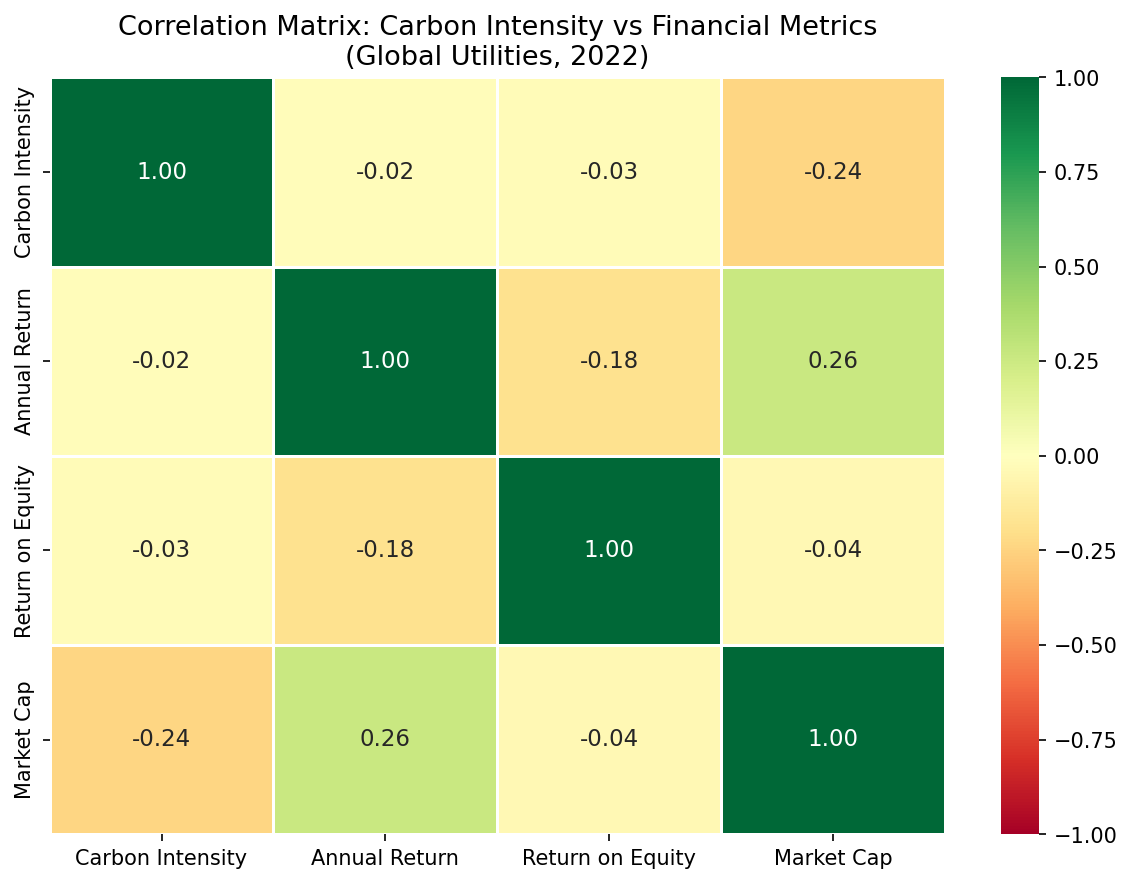
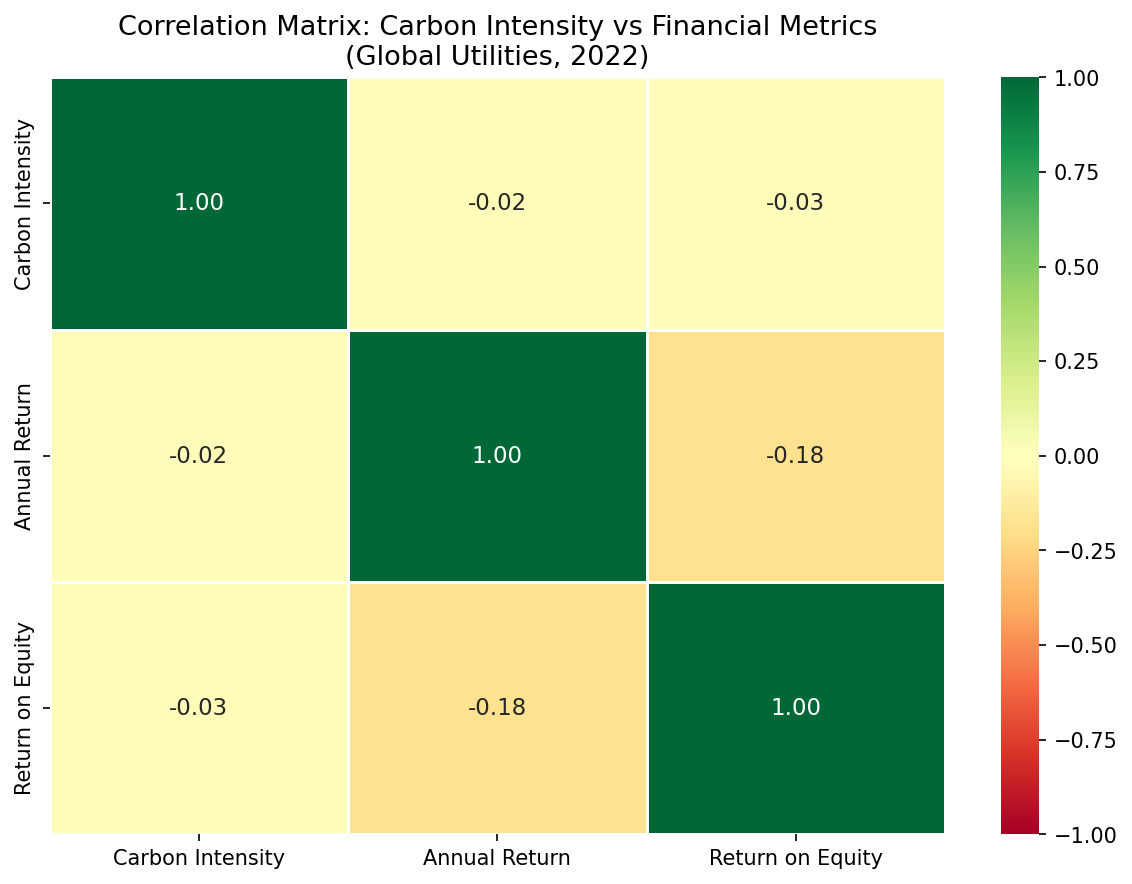
Remove market cap from analysis - inconsistent time period

diff --git a/visualisation.py b/visualisation.py
@@ -35,12 +35,12 @@ print("Chart 1 saved")
 # CHART 2: Correlation heatmap
 import seaborn as sns
 
-corr_cols = ['carbon_intensity', 'annual_return_2022', 'return_on_equity', 'market_cap']
+corr_cols = ['carbon_intensity', 'annual_return_2022', 'return_on_equity']
 corr_matrix = df[corr_cols].corr()
 
 # Rename columns for cleaner labels
-corr_matrix.columns = ['Carbon Intensity', 'Annual Return', 'Return on Equity', 'Market Cap']
-corr_matrix.index = ['Carbon Intensity', 'Annual Return', 'Return on Equity', 'Market Cap']
+corr_matrix.columns = ['Carbon Intensity', 'Annual Return', 'Return on Equity']
+corr_matrix.index = ['Carbon Intensity', 'Annual Return', 'Return on Equity']
 
 fig, ax = plt.subplots(figsize=(8, 6))
 

diff --git a/analysis.py b/analysis.py
@@ -53,6 +53,19 @@ tercile_summary = df.groupby('tercile')[['annual_return_2022', 'return_on_equity
 print("\n--- TERCILE ANALYSIS ---")
 print(tercile_summary)
 
+# Correlation metrics
+metrics = {
+    'Annual Return': 'annual_return_2022',
+    'Return on Equity': 'return_on_equity'
+}
+
+print("\n--- CARBON INTENSITY CORRELATIONS ---")
+for label, col in metrics.items():
+    clean = df[['carbon_intensity', col]].dropna()
+    r, p = stats.pearsonr(clean['carbon_intensity'], clean[col])
+    print(f"{label}: r = {r:.3f}, p = {p:.3f}")
+
+
 # --- SUMMARY ---
 print("\n--- FULL SUMMARY ---")
 print(f"Sample size: {len(df)} companies")

diff --git a/README.md b/README.md
@@ -2,32 +2,70 @@
 
 ## Research Question
 Is there a statistically significant association between carbon intensity and financial performance among listed utility companies?
-
+ 
 ## Data Sources
 - **Sample Frame:** iShares Global Utilities ETF (JXI), as of April 2026
 - **Emissions Data:** Scope 1 GHG emissions sourced from NZDPU (nzdpu.com), reporting year 2022
 - **Financial Data:** Revenue, stock returns, ROE, and market cap sourced via yfinance, year 2022
 
 ## Sampling Methodology
-The sampling frame is all utility equity constituents of JXI as of April 2026. Companies were excluded only where 2022 financial data was unavailable via yfinance, resulting in a final analytical sample of 45 companies across 15 countries.
-
-One company was excluded:
+The sampling frame is all utility equity constituents of the iShares Global Utilities ETF (JXI) as of April 2026, comprising 46 companies across 15 countries. Companies were excluded only where 2022 financial data was unavailable via yfinance, resulting in a final analytical sample of 45 companies.
+ 
+**One company excluded:**
 - Eletrobras (ELET3.SA) — unavailable 2022 financial data via yfinance
 
+## Key Metric: Carbon Intensity
+Carbon intensity is defined as Scope 1 GHG emissions (tCO₂e) divided by total revenue (USD). This normalises emissions for company size, enabling meaningful comparison across companies of different scales. Revenue was chosen as the denominator in line with standard ESG research practice and frameworks including TCFD.
+ 
+## Findings
+ 
+### 1. Tercile Analysis
+Companies were split into three equal groups by carbon intensity. Average 2022 stock returns and ROE by group:
+ 
+| Tercile | Avg Annual Return | Avg ROE |
+|---|---|---|
+| Low carbon intensity | +3.3% | 10.2% |
+| Mid carbon intensity | +2.6% | 12.8% |
+| High carbon intensity | -0.5% | 11.9% |
+ 
+A consistent stepdown in returns from low to high carbon intensity is observed, with the highest emitting group being the only cohort to deliver negative average returns in 2022.
+ 
+![Tercile Chart](chart_tercile_returns.png)
+ 
+### 2. Correlation Analysis
+Pearson correlations between carbon intensity and all financial metrics:
+ 
+| Metric | Pearson r | p-value | Interpretation |
+|---|---|---|---|
+| Annual Stock Return | -0.019 | 0.900 | No meaningful relationship |
+| Return on Equity | -0.029 | 0.848 | No meaningful relationship |
+| Market Cap | -0.235 | 0.119 | Moderate negative association |
+ 
+None of the correlations reach statistical significance (p < 0.05), confirming no meaningful linear relationship between carbon intensity and either annual stock returns or profitability in 2022. The analysis is therefore exploratory and directional in nature.
+ 
+![Scatter Plot](scatter_carbon_vs_return.png)
+ 
+### 3. Correlation Heatmap
+The heatmap below visualises Pearson correlations across all four variables. Carbon intensity shows near-zero correlations with annual return and ROE, and its strongest association is with market cap (-0.24). 
+ 
+![Heatmap](chart_correlation_heatmap.png)
+ 
+## Interpretation
+The tercile analysis revealed a pattern in the annual return but not on the ROE. The Pearson correlation confirms no statistically significant linear relationship exists across the full sample. This could suggest that ESG signal in utility stock returns may be non-linear. However, further data and analysis is needed.
+ 
+2022 was an unusual year for energy markets due to the Russia-Ukraine conflict, which drove energy price spikes that may have disproportionately benefited higher-emitting fossil fuel utilities and prices would have varied based on geographical factors. 
+
 ## Limitations
-- Correlation analysis only — causation cannot be inferred due to confounding variables including regulatory environment, geography, and energy policy
-- Market cap reflects current values (2025/2026) rather than 2022 figures due to yfinance data constraints
-- Emissions data is self-reported by companies via NZDPU and has not been independently verified
-- Sample is limited to JXI constituents and may not represent the full global utilities universe
+- **Correlation only** — causation cannot be inferred due to confounding variables including regulatory environment, geography, and energy policy
+- **Single year** — 2022 was an atypical year for energy markets; findings may not apply across multiple time periods
+- **Self-reported emissions** — data sourced from NZDPU is company reported and has not been independently verified
+- **Sample scope** — limited to JXI constituents; may not represent the full global utilities universe
 
 ## Project Structure
-- `data_collection.py` — fetches 2022 financial data from yfinance
-- `data_preparation.py` — cleans, merges, and calculates carbon intensity
-- `analysis.py` — correlation analysis and statistical tests
-- `visualisation.py` — generates charts and figures
+- `data_collection.py` — fetches 2022 financial data from yfinance for all JXI utility constituents
+- `data_preparation.py` — cleans and merges datasets, calculates carbon intensity
+- `analysis.py` — Pearson correlation, tercile analysis
+- `visualisation.py` — generates all charts
 
-## Results
-*To be completed*
-
-## Further Work
-*To be completed*
+## Requirements
+See `requirements.txt` for full dependency list. Key libraries: pandas, yfinance, matplotlib, seaborn, scipy.
